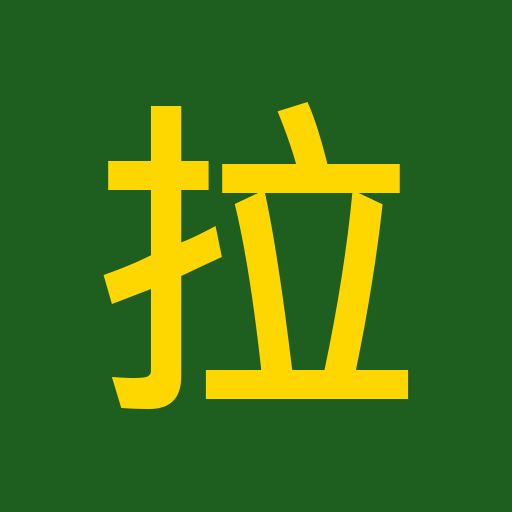
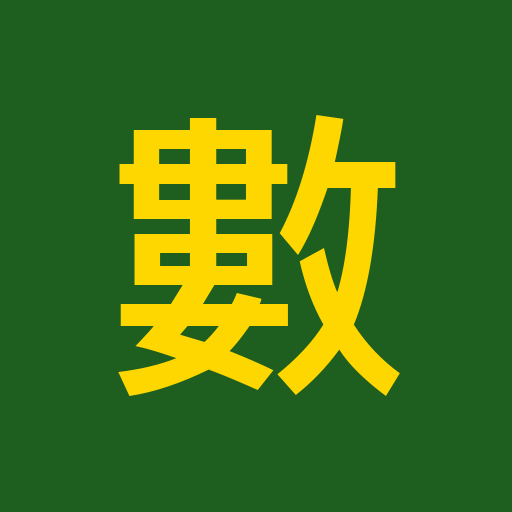
智財權調整：改名「數字牌接龍」（number-tile-game），更換圖示

Changed region(s): [[0.1875, 0.1875, 0.8125, 0.8125]]

diff --git a/數字牌接龍-GoogleSites嵌入用.html b/數字牌接龍-GoogleSites嵌入用.html
@@ -1,16 +1,4 @@
-<!DOCTYPE html>
-<html lang="zh-Hant-TW">
-<head>
 <meta charset="UTF-8">
-<meta name="viewport" content="width=device-width, initial-scale=1.0">
-<title>拉密 Rummikub 單機版</title>
-<link rel="manifest" href="manifest.json">
-<meta name="theme-color" content="#1e5e1e">
-<link rel="apple-touch-icon" href="icons/apple-touch-icon.png">
-<meta name="mobile-web-app-capable" content="yes">
-<meta name="apple-mobile-web-app-capable" content="yes">
-<meta name="apple-mobile-web-app-status-bar-style" content="default">
-<meta name="apple-mobile-web-app-title" content="拉密Rummikub">
 <style>
 :root {
   --tile-w: 52px; --tile-h: 68px; --fs: 18px;
@@ -248,8 +236,6 @@ body{
   :root{--tile-w:56px;--tile-h:74px;}
 }
 </style>
-</head>
-<body>
 
 <!-- Marquee -->
 <div id="marqueeBar"><div id="marqueeTrack"></div></div>
@@ -280,8 +266,8 @@ body{
 <!-- Tutorial -->
 <div id="tut-overlay">
   <div id="tut">
-    <h2>📖 拉密遊戲教學</h2>
-    <p>拉密（Rummikub）是把手牌組成合法牌型的策略桌遊，最先出完手牌者獲勝。</p>
+    <h2>📖 數字牌接龍教學</h2>
+    <p>數字牌接龍是把手牌組成合法牌型的策略桌遊，最先出完手牌者獲勝。</p>
 
     <h3>🃏 牌組（共 106 張）</h3>
     <p>4 種顏色 × 數字 1–13 × 各 2 組 = 104 張，加上 2 張百搭牌（☆）</p>
@@ -346,15 +332,14 @@ body{
   <hr style="border-color:#3a3a3a;margin:10px 0;">
   <div style="font-size:.72em;color:#888;line-height:1.6;text-align:center;">
     ⚠ 本工具僅供個人娛樂與教學示範使用，禁止未經授權公開發布、販售或商業化使用。<br>
-    「Rummikub」「拉密」為其權利人之商標，只用來說明玩法類型；本遊戲為自行製作，非官方產品。<br>
-    創作者：蔡豐全（Mark Tsai）・<a href="manual.html" style="color:inherit">📖 操作手冊</a><br>
-    <img src="https://visitor-badge.laobi.icu/badge?page_id=m255525.rummikub" alt="訪客次數" style="vertical-align:middle;height:20px;margin-top:6px;">
+    本遊戲依常見的「數字牌型組合」玩法自行製作，與任何桌遊品牌或廠商無關。<br>
+    創作者：蔡豐全（Mark Tsai）
   </div>
 </div>
 
 <!-- Header -->
 <div id="hdr">
-  <h1>🃏 拉密</h1>
+  <h1>🃏 數字牌接龍</h1>
   <div id="msg">載入中…</div>
   <button class="hbtn n" onclick="document.getElementById('tut-overlay').classList.add('on')">📖 教學</button>
   <button class="hbtn n" onclick="document.getElementById('settings').classList.toggle('on')">⚙ 設定</button>
@@ -1179,56 +1164,3 @@ document.addEventListener('click', e=>{
   }
 })();
 </script>
-
-<!-- 使用警語（2026-11-20 補齊標準配備）：頁面上的入口加在訪客計數器旁，首次造訪自動跳出一次 -->
-<style>
-.mkw-mask{position:fixed;inset:0;background:rgba(15,18,22,.55);display:flex;align-items:center;justify-content:center;padding:16px;z-index:2147483000}
-.mkw-box{background:#fff;color:#222;max-width:520px;width:100%;max-height:calc(100vh - 32px);overflow:auto;border-radius:12px;padding:20px 22px;box-shadow:0 10px 40px rgba(0,0,0,.3);font:15px/1.7 "Microsoft JhengHei","PingFang TC",system-ui,sans-serif;text-align:left}
-.mkw-box h2{margin:0 0 8px;font-size:1.15rem;color:#b3261e}
-.mkw-box ul{margin:0 0 14px;padding-left:1.2em}
-.mkw-box li{margin:4px 0}
-.mkw-box button{font:inherit;background:#b3261e;color:#fff;border:0;border-radius:8px;padding:8px 18px;cursor:pointer}
-.mkw-link{color:inherit;cursor:pointer;text-decoration:underline}
-.mkw-pill{position:fixed;left:10px;bottom:calc(10px + env(safe-area-inset-bottom,0px));z-index:2147482000;background:rgba(255,255,255,.92);color:#b3261e;border:1px solid #b3261e;border-radius:999px;padding:3px 10px;font:13px/1.4 "Microsoft JhengHei",system-ui,sans-serif;cursor:pointer}
-@media (prefers-color-scheme:dark){.mkw-box{background:#24272b;color:#eee}.mkw-box h2{color:#ff8a80}}
-</style>
-<script>
-(function(){
-  var C = {"key":"mkw.rummikub.seen","items":["這是依「數字牌型組合」玩法自製的練習遊戲，與任何桌遊品牌或廠商無關。","電腦對手的程度與規則細節可能和實體桌遊或比賽規則不同，請以你們約定的規則為準。","本工具由個人開發、免費提供，僅供學習與參考；使用結果請自行判斷，作者不負任何責任。"],"noPill":false};
-  function open(){
-    if(document.querySelector('.mkw-mask')) return;
-    var m = document.createElement('div'); m.className = 'mkw-mask'; m.setAttribute('role', 'dialog'); m.setAttribute('aria-modal', 'true'); m.setAttribute('aria-label', '使用警語');
-    var b = document.createElement('div'); b.className = 'mkw-box';
-    var h = document.createElement('h2'); h.textContent = '⚠ 使用警語'; b.appendChild(h);
-    var ul = document.createElement('ul'); C.items.forEach(function(t){ var li = document.createElement('li'); li.textContent = t; ul.appendChild(li); }); b.appendChild(ul);
-    var ok = document.createElement('button'); ok.type = 'button'; ok.textContent = '我知道了'; b.appendChild(ok);
-    function close(){ m.remove(); document.removeEventListener('keydown', esc, true); try{ localStorage.setItem(C.key, '1'); }catch(e){} }
-    function esc(e){ if(e.key === 'Escape'){ e.stopPropagation(); close(); } }
-    ok.addEventListener('click', close); m.addEventListener('click', function(e){ if(e.target === m) close(); });
-    document.addEventListener('keydown', esc, true);
-    m.appendChild(b); document.body.appendChild(m); ok.focus();
-  }
-  function link(){ var a = document.createElement('a'); a.href = '#'; a.className = 'mkw-link'; a.textContent = '⚠ 使用警語'; a.addEventListener('click', function(e){ e.preventDefault(); open(); }); return a; }
-  // 入口放在訪客計數器旁邊（計數器是 JS 晚產生的也會補上）
-  function attach(){
-    var imgs = document.querySelectorAll('img[src*="visitor-badge"], img[src*="hits.sh"], img[src*="countapi"]'), n = 0;
-    Array.prototype.forEach.call(imgs, function(img){
-      var host = img.closest('a') || img;
-      if(host.previousSibling && host.previousSibling.className === 'mkw-sep') { n++; return; }
-      var s = document.createElement('span'); s.className = 'mkw-sep'; s.appendChild(link()); s.appendChild(document.createTextNode('　'));
-      host.parentNode.insertBefore(s, host); n++;
-    });
-    return n;
-  }
-  function init(){
-    var found = attach();
-    if(!found && !C.noPill){ var p = document.createElement('button'); p.type = 'button'; p.className = 'mkw-pill'; p.textContent = '⚠ 使用警語'; p.addEventListener('click', open); document.body.appendChild(p); }
-    var tm = null; if(window.MutationObserver) new MutationObserver(function(){ if(tm) return; tm = setTimeout(function(){ tm = null; attach(); }, 400); }).observe(document.body, {childList: true, subtree: true});
-    var seen = false; try{ seen = localStorage.getItem(C.key) === '1'; }catch(e){ seen = true; }
-    if(!seen) setTimeout(open, 600);
-  }
-  if(document.readyState === 'loading') document.addEventListener('DOMContentLoaded', init); else init();
-})();
-</script>
-</body>
-</html>

diff --git a/數字牌接龍.html b/數字牌接龍.html
@@ -1,4 +1,16 @@
+<!DOCTYPE html>
+<html lang="zh-Hant-TW">
+<head>
 <meta charset="UTF-8">
+<meta name="viewport" content="width=device-width, initial-scale=1.0">
+<title>數字牌接龍</title>
+<link rel="manifest" href="manifest.json">
+<meta name="theme-color" content="#1e5e1e">
+<link rel="apple-touch-icon" href="icons/apple-touch-icon.png">
+<meta name="mobile-web-app-capable" content="yes">
+<meta name="apple-mobile-web-app-capable" content="yes">
+<meta name="apple-mobile-web-app-status-bar-style" content="default">
+<meta name="apple-mobile-web-app-title" content="數字牌接龍">
 <style>
 :root {
   --tile-w: 52px; --tile-h: 68px; --fs: 18px;
@@ -236,6 +248,8 @@ body{
   :root{--tile-w:56px;--tile-h:74px;}
 }
 </style>
+</head>
+<body>
 
 <!-- Marquee -->
 <div id="marqueeBar"><div id="marqueeTrack"></div></div>
@@ -266,8 +280,8 @@ body{
 <!-- Tutorial -->
 <div id="tut-overlay">
   <div id="tut">
-    <h2>📖 拉密遊戲教學</h2>
-    <p>拉密（Rummikub）是把手牌組成合法牌型的策略桌遊，最先出完手牌者獲勝。</p>
+    <h2>📖 數字牌接龍教學</h2>
+    <p>數字牌接龍是把手牌組成合法牌型的策略桌遊，最先出完手牌者獲勝。</p>
 
     <h3>🃏 牌組（共 106 張）</h3>
     <p>4 種顏色 × 數字 1–13 × 各 2 組 = 104 張，加上 2 張百搭牌（☆）</p>
@@ -332,14 +346,15 @@ body{
   <hr style="border-color:#3a3a3a;margin:10px 0;">
   <div style="font-size:.72em;color:#888;line-height:1.6;text-align:center;">
     ⚠ 本工具僅供個人娛樂與教學示範使用，禁止未經授權公開發布、販售或商業化使用。<br>
-    「Rummikub」「拉密」為其權利人之商標，只用來說明玩法類型；本遊戲為自行製作，非官方產品。<br>
-    創作者：蔡豐全（Mark Tsai）
+    本遊戲依常見的「數字牌型組合」玩法自行製作，與任何桌遊品牌或廠商無關。<br>
+    創作者：蔡豐全（Mark Tsai）・<a href="manual.html" style="color:inherit">📖 操作手冊</a><br>
+    <img src="https://visitor-badge.laobi.icu/badge?page_id=m255525.rummikub" alt="訪客次數" style="vertical-align:middle;height:20px;margin-top:6px;">
   </div>
 </div>
 
 <!-- Header -->
 <div id="hdr">
-  <h1>🃏 拉密</h1>
+  <h1>🃏 數字牌接龍</h1>
   <div id="msg">載入中…</div>
   <button class="hbtn n" onclick="document.getElementById('tut-overlay').classList.add('on')">📖 教學</button>
   <button class="hbtn n" onclick="document.getElementById('settings').classList.toggle('on')">⚙ 設定</button>
@@ -1164,3 +1179,56 @@ document.addEventListener('click', e=>{
   }
 })();
 </script>
+
+<!-- 使用警語（2026-11-20 補齊標準配備）：頁面上的入口加在訪客計數器旁，首次造訪自動跳出一次 -->
+<style>
+.mkw-mask{position:fixed;inset:0;background:rgba(15,18,22,.55);display:flex;align-items:center;justify-content:center;padding:16px;z-index:2147483000}
+.mkw-box{background:#fff;color:#222;max-width:520px;width:100%;max-height:calc(100vh - 32px);overflow:auto;border-radius:12px;padding:20px 22px;box-shadow:0 10px 40px rgba(0,0,0,.3);font:15px/1.7 "Microsoft JhengHei","PingFang TC",system-ui,sans-serif;text-align:left}
+.mkw-box h2{margin:0 0 8px;font-size:1.15rem;color:#b3261e}
+.mkw-box ul{margin:0 0 14px;padding-left:1.2em}
+.mkw-box li{margin:4px 0}
+.mkw-box button{font:inherit;background:#b3261e;color:#fff;border:0;border-radius:8px;padding:8px 18px;cursor:pointer}
+.mkw-link{color:inherit;cursor:pointer;text-decoration:underline}
+.mkw-pill{position:fixed;left:10px;bottom:calc(10px + env(safe-area-inset-bottom,0px));z-index:2147482000;background:rgba(255,255,255,.92);color:#b3261e;border:1px solid #b3261e;border-radius:999px;padding:3px 10px;font:13px/1.4 "Microsoft JhengHei",system-ui,sans-serif;cursor:pointer}
+@media (prefers-color-scheme:dark){.mkw-box{background:#24272b;color:#eee}.mkw-box h2{color:#ff8a80}}
+</style>
+<script>
+(function(){
+  var C = {"key":"mkw.rummikub.seen","items":["這是依「數字牌型組合」玩法自製的練習遊戲，與任何桌遊品牌或廠商無關。","電腦對手的程度與規則細節可能和實體桌遊或比賽規則不同，請以你們約定的規則為準。","本工具由個人開發、免費提供，僅供學習與參考；使用結果請自行判斷，作者不負任何責任。"],"noPill":false};
+  function open(){
+    if(document.querySelector('.mkw-mask')) return;
+    var m = document.createElement('div'); m.className = 'mkw-mask'; m.setAttribute('role', 'dialog'); m.setAttribute('aria-modal', 'true'); m.setAttribute('aria-label', '使用警語');
+    var b = document.createElement('div'); b.className = 'mkw-box';
+    var h = document.createElement('h2'); h.textContent = '⚠ 使用警語'; b.appendChild(h);
+    var ul = document.createElement('ul'); C.items.forEach(function(t){ var li = document.createElement('li'); li.textContent = t; ul.appendChild(li); }); b.appendChild(ul);
+    var ok = document.createElement('button'); ok.type = 'button'; ok.textContent = '我知道了'; b.appendChild(ok);
+    function close(){ m.remove(); document.removeEventListener('keydown', esc, true); try{ localStorage.setItem(C.key, '1'); }catch(e){} }
+    function esc(e){ if(e.key === 'Escape'){ e.stopPropagation(); close(); } }
+    ok.addEventListener('click', close); m.addEventListener('click', function(e){ if(e.target === m) close(); });
+    document.addEventListener('keydown', esc, true);
+    m.appendChild(b); document.body.appendChild(m); ok.focus();
+  }
+  function link(){ var a = document.createElement('a'); a.href = '#'; a.className = 'mkw-link'; a.textContent = '⚠ 使用警語'; a.addEventListener('click', function(e){ e.preventDefault(); open(); }); return a; }
+  // 入口放在訪客計數器旁邊（計數器是 JS 晚產生的也會補上）
+  function attach(){
+    var imgs = document.querySelectorAll('img[src*="visitor-badge"], img[src*="hits.sh"], img[src*="countapi"]'), n = 0;
+    Array.prototype.forEach.call(imgs, function(img){
+      var host = img.closest('a') || img;
+      if(host.previousSibling && host.previousSibling.className === 'mkw-sep') { n++; return; }
+      var s = document.createElement('span'); s.className = 'mkw-sep'; s.appendChild(link()); s.appendChild(document.createTextNode('　'));
+      host.parentNode.insertBefore(s, host); n++;
+    });
+    return n;
+  }
+  function init(){
+    var found = attach();
+    if(!found && !C.noPill){ var p = document.createElement('button'); p.type = 'button'; p.className = 'mkw-pill'; p.textContent = '⚠ 使用警語'; p.addEventListener('click', open); document.body.appendChild(p); }
+    var tm = null; if(window.MutationObserver) new MutationObserver(function(){ if(tm) return; tm = setTimeout(function(){ tm = null; attach(); }, 400); }).observe(document.body, {childList: true, subtree: true});
+    var seen = false; try{ seen = localStorage.getItem(C.key) === '1'; }catch(e){ seen = true; }
+    if(!seen) setTimeout(open, 600);
+  }
+  if(document.readyState === 'loading') document.addEventListener('DOMContentLoaded', init); else init();
+})();
+</script>
+</body>
+</html>

diff --git a/manual.html b/manual.html
@@ -3,7 +3,7 @@
 <head>
 <meta charset="UTF-8">
 <meta name="viewport" content="width=device-width, initial-scale=1.0">
-<title>操作手冊｜拉密 Rummikub</title>
+<title>操作手冊｜數字牌接龍</title>
 <style>
   :root{
     --accent:#1d4ed8; --accent-dark:#1e3a8a; --bg:#f4f6fb; --card:#ffffff;
@@ -63,13 +63,13 @@
 </head>
 <body>
 <header>
-  <h1>📖 拉密 Rummikub・操作手冊</h1>
+  <h1>📖 數字牌接龍・操作手冊</h1>
   <p>把手牌組成合法牌型、最先出完手牌就獲勝的單機桌遊</p>
-  <a href="拉密Rummikub.html">← 回到遊戲</a>
+  <a href="數字牌接龍.html">← 回到遊戲</a>
 </header>
 <main>
 <div class="warning">⚠ 使用警語<small>電腦對手的程度與規則細節可能和實體桌遊或比賽規則不同，請以你們約定的規則為準。遊戲紀錄只存在你的瀏覽器裡。</small></div>
-<div class="card"><h2>這是什麼遊戲？</h2><p>依「數字牌型組合」玩法自製的單機練習版，你和 1～3 位電腦玩家輪流出牌，<b>最先把手牌全部出完的人獲勝</b>。和任何桌遊品牌或廠商無關。</p><p><b>商標聲明：</b>「Rummikub」「拉密」為其權利人之商標，本頁只用來說明玩法類型；這是自行撰寫程式與圖面的練習遊戲，不是官方產品，與權利人沒有任何合作、贊助或授權關係。</p></div>
+<div class="card"><h2>這是什麼遊戲？</h2><p>依「數字牌型組合」玩法自製的單機練習版，你和 1～3 位電腦玩家輪流出牌，<b>最先把手牌全部出完的人獲勝</b>。和任何桌遊品牌或廠商無關。</p></div>
 <div class="card"><h2>牌組</h2><p>共 106 張：4 種顏色 × 數字 1～13 × 各 2 組＝104 張，加上 2 張百搭牌（☆）。</p></div>
 <div class="card"><h2>兩種合法牌型</h2><ul><li><b>組合（Group）</b>：3 或 4 張數字相同、顏色都不同的牌，例如紅 7、藍 7、黑 7。</li><li><b>順子（Run）</b>：3 張以上同顏色、數字連續的牌，例如藍 9、藍 10、藍 11。</li></ul><h3>首次出牌</h3><p>第一次出牌時，出的牌數字加總必須達到 <b>30 分以上</b>；之後就可以自由出牌，也可以把牌加到牌桌上已有的組合裡。</p><h3>☆ 百搭牌</h3><p>可以代替任何一張牌。如果你手上有它代替的那張真牌，可以從牌桌換回百搭牌繼續使用。</p></div>
 <div class="card"><h2>操作步驟</h2><ol><li>點手牌中的牌，出現金色邊框代表已選取（可一次選多張）。</li><li>點牌桌上某一組的「加入此組」，或點「＋ 新增一組」；也可以直接把牌拖到牌桌上。</li><li>排好後按「確認出牌 ✓」；想重來就按「↩ 取消」撤回這回合的操作。</li><li>沒有牌可以出時，按「摸牌 📥」從牌堆補一張，換下一位。</li><li>「排列手牌」可以把手牌依顏色和數字整理好，方便找牌型。</li></ol></div>

diff --git a/service-worker.js b/service-worker.js
@@ -1,9 +1,9 @@
 // 僅供「加入主畫面」安裝需求使用：network-first + 同源快取備援。
-const CACHE_NAME = 'rummikub-shell-v4';
+const CACHE_NAME = 'number-tile-game-shell-v1';
 const SHELL_FILES = [
   './',
   './index.html',
-  './拉密Rummikub.html',
+  './數字牌接龍.html',
   './manual.html',
   './manifest.json',
   './icons/icon-192.png',
@@ -21,7 +21,7 @@ self.addEventListener('install', (event) => {
 self.addEventListener('activate', (event) => {
   event.waitUntil(
     caches.keys()
-      .then((keys) => Promise.all(keys.filter((k) => k !== CACHE_NAME && k.indexOf(CACHE_NAME.replace(/\d+$/, '')) === 0).map((k) => caches.delete(k))))
+      .then((keys) => Promise.all(keys.filter((k) => k !== CACHE_NAME && (k.indexOf(CACHE_NAME.replace(/\d+$/, '')) === 0 || k.indexOf('rummikub-shell-') === 0)).map((k) => caches.delete(k))))
       .then(() => self.clients.claim())
   );
 });

diff --git a/index.html b/index.html
@@ -2,10 +2,10 @@
 <html lang="zh-Hant-TW">
 <head>
 <meta charset="UTF-8">
-<meta http-equiv="refresh" content="0; url=./拉密Rummikub.html">
-<title>拉密 Rummikub 單機版</title>
+<meta http-equiv="refresh" content="0; url=./數字牌接龍.html">
+<title>數字牌接龍</title>
 </head>
 <body>
-<p>正在載入遊戲…如果沒有自動跳轉，請點<a href="./拉密Rummikub.html">這裡</a>。</p>
+<p>正在載入遊戲…如果沒有自動跳轉，請點<a href="./數字牌接龍.html">這裡</a>。</p>
 </body>
 </html>

diff --git a/CLAUDE.md b/CLAUDE.md
@@ -2,22 +2,24 @@
 
 This file provides guidance to Claude Code (claude.ai/code) when working with code in this repository.
 
-以中高齡使用者為設計核心的拉密（Rummikub）單機桌遊。純前端、單一檔案、無外部相依、無伺服器，開啟即玩。
+以中高齡使用者為設計核心的「數字牌接龍」單機桌遊。純前端、單一檔案、無外部相依、無伺服器，開啟即玩。
+
+**2026-11-25 改名（商標考量，使用者同意）**：遊戲名稱、檔名、圖示、GitHub repo 與本機資料夾全部改成「數字牌接龍」／`number-tile-game`。**頁面、檔名、說明都不可再出現原本那個桌遊品牌的中英文名稱**（歷史紀錄見 git log）。舊 GitHub Pages 網址已失效（Pages 不轉址）；Google Sites 嵌入版要使用者重新貼上。訪客計數器 `page_id`、localStorage key（`rmk-*`、`mkw.*.seen`）**刻意不改**，畫面上看不到。service worker 會順便清掉舊快取。
 
 ## 架構
 
-- **`拉密Rummikub.html`** — 遊戲本體。**所有 HTML／CSS／JavaScript 與遊戲邏輯都在這一個檔案內**，沒有建置步驟、沒有套件、沒有測試。直接以瀏覽器開啟即可執行；修改後重新整理瀏覽器即生效。
-- **`拉密Rummikub-GoogleSites嵌入用.html`** — 供 Google Sites 內嵌的變體版本。
+- **`數字牌接龍.html`** — 遊戲本體。**所有 HTML／CSS／JavaScript 與遊戲邏輯都在這一個檔案內**，沒有建置步驟、沒有套件、沒有測試。直接以瀏覽器開啟即可執行；修改後重新整理瀏覽器即生效。
+- **`數字牌接龍-GoogleSites嵌入用.html`** — 供 Google Sites 內嵌的變體版本。
 - **`一鍵複製-貼到GoogleSites.bat`** — 把嵌入版 HTML 內容複製到剪貼簿，方便貼進 Google Sites。
-- **`index.html`** — GitHub Pages 用的重新導向 stub（`meta refresh` 導到 `拉密Rummikub.html`），不是遊戲本體，內容不需要跟著遊戲邏輯同步更新。
+- **`index.html`** — GitHub Pages 用的重新導向 stub（`meta refresh` 導到 `數字牌接龍.html`），不是遊戲本體，內容不需要跟著遊戲邏輯同步更新。
 
 **兩個 HTML 版本需保持同步**：修改遊戲邏輯或介面時，主檔與 Google Sites 嵌入版都要一起更新（或由主檔重新產生嵌入版），否則兩處行為會分歧。
 
-**GitHub Pages 上線網址**：<https://m255525.github.io/Rummikub/>（2026-08-05 啟用，`master` 分支根目錄）。公開 repo：<https://github.com/M255525/Rummikub>。因為遊戲本體檔名是中文（`拉密Rummikub.html`），GitHub Pages 預設只認 `index.html` 當首頁，所以另外放了一個極簡的 `index.html` 導向頁，避免把遊戲內容複製成兩份要同步。**這個上線管道跟 Google Sites 是分開的兩條路**：`git push` 到這個 repo 後 GitHub Pages 會自動重新部署（通常一兩分鐘內生效）；Google Sites 版本仍然要手動雙擊 `一鍵複製-貼到GoogleSites.bat` 重新貼上發布，兩邊不會互相同步，改完程式碼要記得兩邊都處理。
+**GitHub Pages 上線網址**：<https://m255525.github.io/number-tile-game/>（2026-08-05 啟用，`master` 分支根目錄）。公開 repo：<https://github.com/M255525/number-tile-game>。因為遊戲本體檔名是中文（`數字牌接龍.html`），GitHub Pages 預設只認 `index.html` 當首頁，所以另外放了一個極簡的 `index.html` 導向頁，避免把遊戲內容複製成兩份要同步。**這個上線管道跟 Google Sites 是分開的兩條路**：`git push` 到這個 repo 後 GitHub Pages 會自動重新部署（通常一兩分鐘內生效）；Google Sites 版本仍然要手動雙擊 `一鍵複製-貼到GoogleSites.bat` 重新貼上發布，兩邊不會互相同步，改完程式碼要記得兩邊都處理。
 
 ## 加入主畫面（PWA，2026-08-14 新增）
 
-比照工作區 `expense-tracker-pwa` 的做法：`manifest.json`＋`icons/`（棋盤綠 `#1e5e1e` 背景、金色 `#FFD700`「拉」字圖示）＋`service-worker.js`（network-first＋同源快取備援，不需要每次改動升版 `CACHE_NAME`）。**manifest／SW 只掛在遊戲本體 `拉密Rummikub.html`，不動 `index.html`（純轉址 stub，不需要）與 `拉密Rummikub-GoogleSites嵌入用.html`（貼進 Google Sites 的內嵌內容，不是獨立頁面載入，無法安裝也不該註冊 SW）**。安裝按鈕（`#installBtn`，📲 加入主畫面）放在 `#settings` 面板內、「🔄 重新開始」下方，沿用既有 `.hbtn` 樣式。已用 Playwright 實測 Chromium 觸發 `beforeinstallprompt`、SW 註冊成功。
+比照工作區 `expense-tracker-pwa` 的做法：`manifest.json`＋`icons/`（棋盤綠 `#1e5e1e` 背景、金色 `#FFD700`「數」字圖示）＋`service-worker.js`（network-first＋同源快取備援，不需要每次改動升版 `CACHE_NAME`）。**manifest／SW 只掛在遊戲本體 `數字牌接龍.html`，不動 `index.html`（純轉址 stub，不需要）與 `數字牌接龍-GoogleSites嵌入用.html`（貼進 Google Sites 的內嵌內容，不是獨立頁面載入，無法安裝也不該註冊 SW）**。安裝按鈕（`#installBtn`，📲 加入主畫面）放在 `#settings` 面板內、「🔄 重新開始」下方，沿用既有 `.hbtn` 樣式。已用 Playwright 實測 Chromium 觸發 `beforeinstallprompt`、SW 註冊成功。
 
 
 **iOS／iPadOS／macOS 相容性補強（2026-08-14 同日追加）**：Safari（含 iOS 上的 Chrome/Firefox，底層都是 WebKit）**永遠不會觸發 `beforeinstallprompt`**，原本的按鈕邏輯在這些瀏覽器上一律落入「瀏覽器不支援」這句話，其實是誤導——蘋果裝置本來就能加入主畫面，只是要透過分享選單手動操作，不像 Chrome/Edge 有自動彈窗。修法：安裝腳本新增 `isIOSDevice`（`/iPad|iPhone|iPod/` 或 `navigator.platform==='MacIntel' && maxTouchPoints>1`——後者是因為 iPadOS 13+ 預設偽裝成 Mac 桌面版 UA，要用觸控點數才分得出來是 iPad 還是真的 Mac）與 `isMacDesktop && isSafariEngine`（macOS 桌面版 Safari 17+ 是「檔案→加入 Dock」，跟手機的分享選單操作不同）兩種判斷，各自顯示對應的操作指引文字，不再顯示「不支援」；`isStandalone`（`matchMedia('(display-mode: standalone)')` 或 iOS 專有的 `navigator.standalone`）為真時直接隱藏按鈕（已經是安裝後開啟，不需要再顯示安裝按鈕）。`<head>` 同步補上 `apple-touch-icon`（180×180 專用尺寸，`icons/apple-touch-icon.png`，純色不透明背景）＋ `apple-mobile-web-app-capable`／`mobile-web-app-capable`（兩個都要，前者給 Safari、後者是 Chrome 主張的新標準，只寫一個 Chrome 會在主控台噴 deprecation warning）＋ `apple-mobile-web-app-status-bar-style`／`apple-mobile-web-app-title`。這五個判斷/訊息字串在全部 9 個已加裝 PWA 的專案裡是逐字複製的同一段邏輯，日後若要調整任一處的措辭或判斷式，建議九個一起改，避免各專案的安裝體驗不一致。
@@ -46,11 +48,11 @@ This file provides guidance to Claude Code (claude.ai/code) when working with co
 
 **修法**：在既有 `@media(max-width:600px)` 斷點內，給 `#msg`／`#turn-info` 加 `flex-basis:100%`（`#msg` 另加 `order:5` 讓它排到標題／按鈕後面自成一行），讓它們各自獨占一整行，標題＋按鈕、4 顆操作按鈕則維持在各自單獨一行內（實測寬度足夠容納，不會再被文字擠壓）。效果：header 110px→83px、action bar 179px→88px，牌桌可視高度增加約 120px（390×844 視窗下）。**點選（tap-to-select）出牌流程本來就是用一般 `onclick`，不依賴 HTML5 拖拉事件，觸控裝置上原本就能正常運作**——這次調整純粹是版面壓縮問題，不是互動邏輯問題。已用 Playwright 在 390px／360px 寬度下實測版面與完整選牌→加入新組→確認出牌流程都正常。
 
-**`拉密Rummikub-GoogleSites嵌入用.html` 已同步套用**（兩個檔案本來就要求保持同步，見上方「架構」一節）。這個嵌入版本除了少了 `<!DOCTYPE>`／`<html>`／`<head>`／`<body>` 這幾行包裝標籤之外，內容與主檔逐行相同；之後任何改動都可以用這個做法重新產生嵌入版，不需要手動逐一對照：
+**`數字牌接龍-GoogleSites嵌入用.html` 已同步套用**（兩個檔案本來就要求保持同步，見上方「架構」一節）。這個嵌入版本除了少了 `<!DOCTYPE>`／`<html>`／`<head>`／`<body>` 這幾行包裝標籤之外，內容與主檔逐行相同；之後任何改動都可以用這個做法重新產生嵌入版，不需要手動逐一對照：
 
 ```python
 import io
-with io.open('拉密Rummikub.html', encoding='utf-8', newline='') as f:
+with io.open('數字牌接龍.html', encoding='utf-8', newline='') as f:
     lines = f.readlines()
 # 移除 DOCTYPE/html/head/title 開頭六行、</head>+<body> 兩行、</body>+</html> 結尾兩行
 # （實際行號請對照當下檔案的 </head>/<body>/</body>/</html> 位置）
@@ -64,11 +66,11 @@ with io.open('拉密Rummikub.html', encoding='utf-8', newline='') as f:
 
 **只有玩家獲勝才會計入排行榜**——電腦獲勝或牌堆摸完平局時，`showOverlay()` 第三個參數 `isWin` 是 `falsy`，不會顯示暱稱輸入框，但排行榜列表仍然照樣顯示（單純不能新增）。玩家獲勝時才判斷 `G.playerTurns` 是否擠得進前 5（`lbQualifies()`：不到 5 筆或回合數少於目前第 5 名），擠得進才顯示暱稱輸入框（留白預設「訪客」），按「🏆 記錄成績」才寫入並依回合數重新排序（由小到大）、截斷到 5 筆。UI 直接整合進既有的結算 `#overlay` Modal 內（`<p id="mbody">` 跟按鈕列之間），不是另開一個畫面。
 
-**`拉密Rummikub-GoogleSites嵌入用.html` 已同步套用**（跟手機版面修正那次一樣，用同一套 Python 腳本重新產生，記得換算當時檔案的 `</head>`/`<body>`/`</body>`/`</html>` 行號）。
+**`數字牌接龍-GoogleSites嵌入用.html` 已同步套用**（跟手機版面修正那次一樣，用同一套 Python 腳本重新產生，記得換算當時檔案的 `</head>`/`<body>`/`</body>`/`</html>` 行號）。
 
 ## 頂部跑馬燈更新（2026-08-20，`Code.gs` 未改動、不需重新部署）
 
-`render()` 新增 `lastKey`（`JSON.stringify(items)`）比對，內容沒變就不重繪，CSS animation 不再被重置歸零重跑（`bar.classList.add('on')` 維持不變）；新增 `appendParsedText()`／`buildTrackContent()` 支援 `[文字](https://...)` 連結語法（`createTextNode` 組 DOM，避免 XSS），資料格式仍是純字串陣列，向下相容。已同步重新產生 `拉密Rummikub-GoogleSites嵌入用.html`，並 commit＋push（GitHub Pages 自動重新部署；Google Sites 嵌入版需使用者自行重新貼上更新後的嵌入碼）。
+`render()` 新增 `lastKey`（`JSON.stringify(items)`）比對，內容沒變就不重繪，CSS animation 不再被重置歸零重跑（`bar.classList.add('on')` 維持不變）；新增 `appendParsedText()`／`buildTrackContent()` 支援 `[文字](https://...)` 連結語法（`createTextNode` 組 DOM，避免 XSS），資料格式仍是純字串陣列，向下相容。已同步重新產生 `數字牌接龍-GoogleSites嵌入用.html`，並 commit＋push（GitHub Pages 自動重新部署；Google Sites 嵌入版需使用者自行重新貼上更新後的嵌入碼）。
 
 ## 操作手冊（2026-11-20 補上）
 `manual.html`：玩法、操作、排行榜、加入主畫面、常見狀況、完整創作者區塊（證照 7 筆、經歷 18 筆）、手冊訪客計數器 `page_id=m255525.<id>.manual`。入口在遊戲頁尾創作者那一行「📖 操作手冊」；已加進 `service-worker.js` 的 `SHELL_FILES` 並升 `CACHE_NAME`。使用警語入口在訪客計數器旁、首次造訪跳出一次（localStorage `mkw.<repo>.seen`）。

diff --git a/.claude/skills/edit-number-tile-game/SKILL.md b/.claude/skills/edit-number-tile-game/SKILL.md
@@ -1,16 +1,16 @@
 ---
-name: edit-rummikub
-description: 修改 Rummikub 拉密單機桌遊。當使用者在 Rummikub 專案要求調整遊戲玩法、AI 對手、介面或版面時使用。維持「中高齡友善」設計約束，並確保主檔與 Google Sites 嵌入版兩個 HTML 保持同步。
+name: edit-number-tile-game
+description: 修改數字牌接龍單機桌遊。當使用者在 number-tile-game 專案要求調整遊戲玩法、AI 對手、介面或版面時使用。維持「中高齡友善」設計約束，並確保主檔與 Google Sites 嵌入版兩個 HTML 保持同步。
 ---
 
-# 修改 Rummikub 拉密桌遊
+# 修改數字牌接龍
 
 單一檔案 vanilla HTML/CSS/JS，無相依、無建置、無測試。修改後以瀏覽器開啟驗證即可。
 
 ## 兩個版本必須同步
 
-- `拉密Rummikub.html` — 遊戲本體。
-- `拉密Rummikub-GoogleSites嵌入用.html` — Google Sites 嵌入變體。
+- `數字牌接龍.html` — 遊戲本體。
+- `數字牌接龍-GoogleSites嵌入用.html` — Google Sites 嵌入變體。
 
 改動玩法或介面時，**兩檔都要一起更新**（或由主檔重新產生嵌入版）。`一鍵複製-貼到GoogleSites.bat` 可把嵌入版內容複製到剪貼簿供貼上 Google Sites。
 

diff --git a/README.md b/README.md
@@ -1,12 +1,12 @@
-# 拉密 Rummikub 單機版
+# 數字牌接龍
 
-一款以中高齡使用者為設計核心的拉密（Rummikub）線上桌遊，純前端實作，無需安裝，開啟即玩。
+一款以中高齡使用者為設計核心的數字牌組合線上桌遊，純前端實作，無需安裝，開啟即玩。
 
 ---
 
 ## 快速開始
 
-直接用瀏覽器開啟 `拉密Rummikub.html`，即可開始遊戲。無需網路、無需安裝任何套件。
+直接用瀏覽器開啟 `數字牌接龍.html`，即可開始遊戲。無需網路、無需安裝任何套件。
 
 ---
 
@@ -106,7 +106,7 @@
 ## 檔案說明
 
 ```
-拉密Rummikub.html   ← 遊戲本體，開啟即玩
+數字牌接龍.html   ← 遊戲本體，開啟即玩
 README.md           ← 本說明文件
 ```
 
